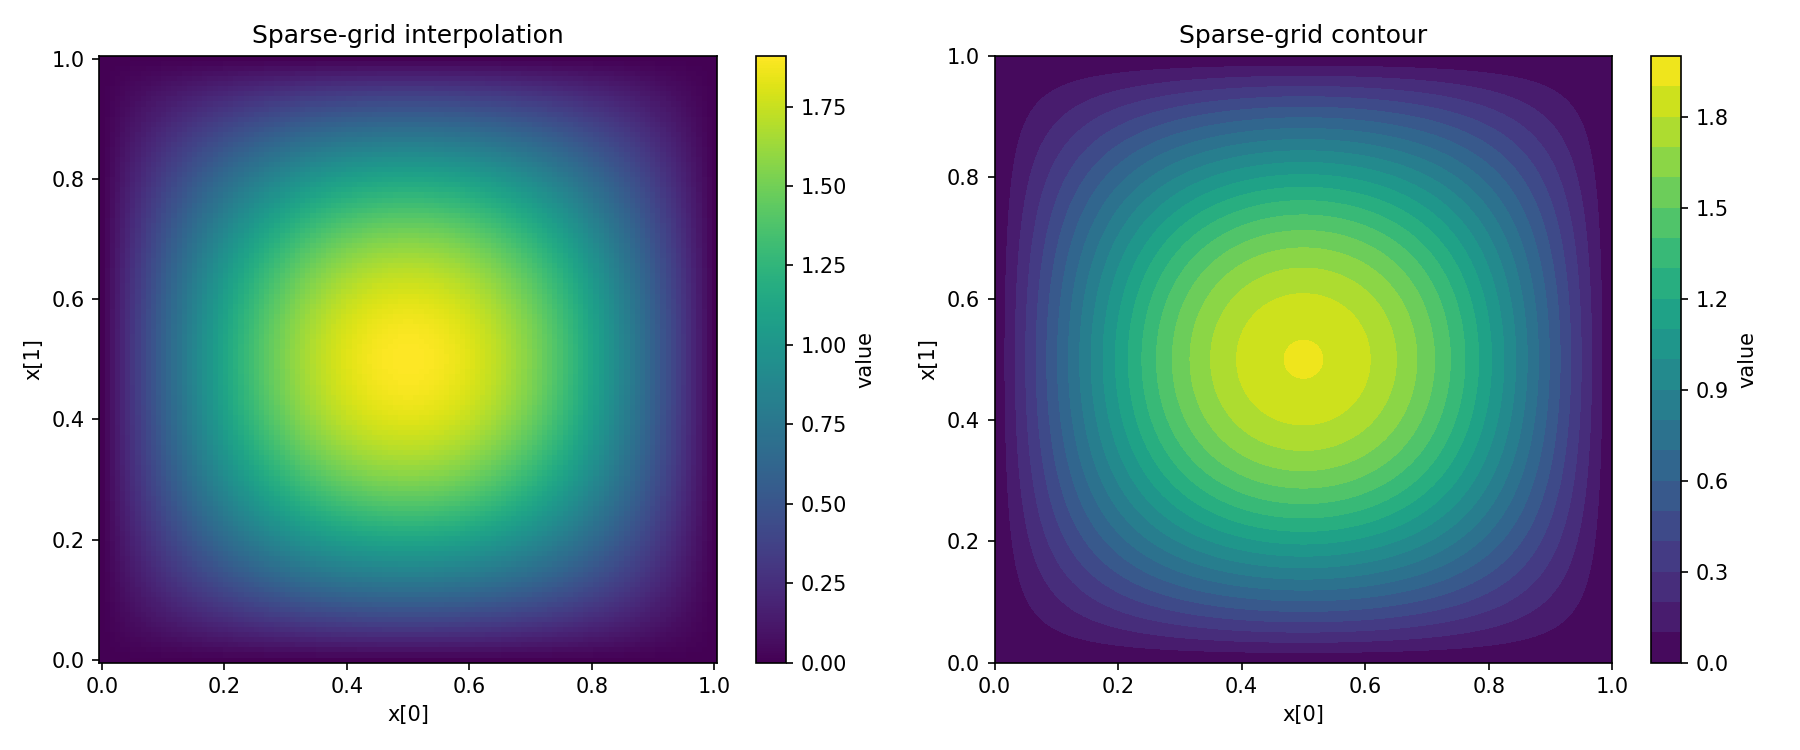
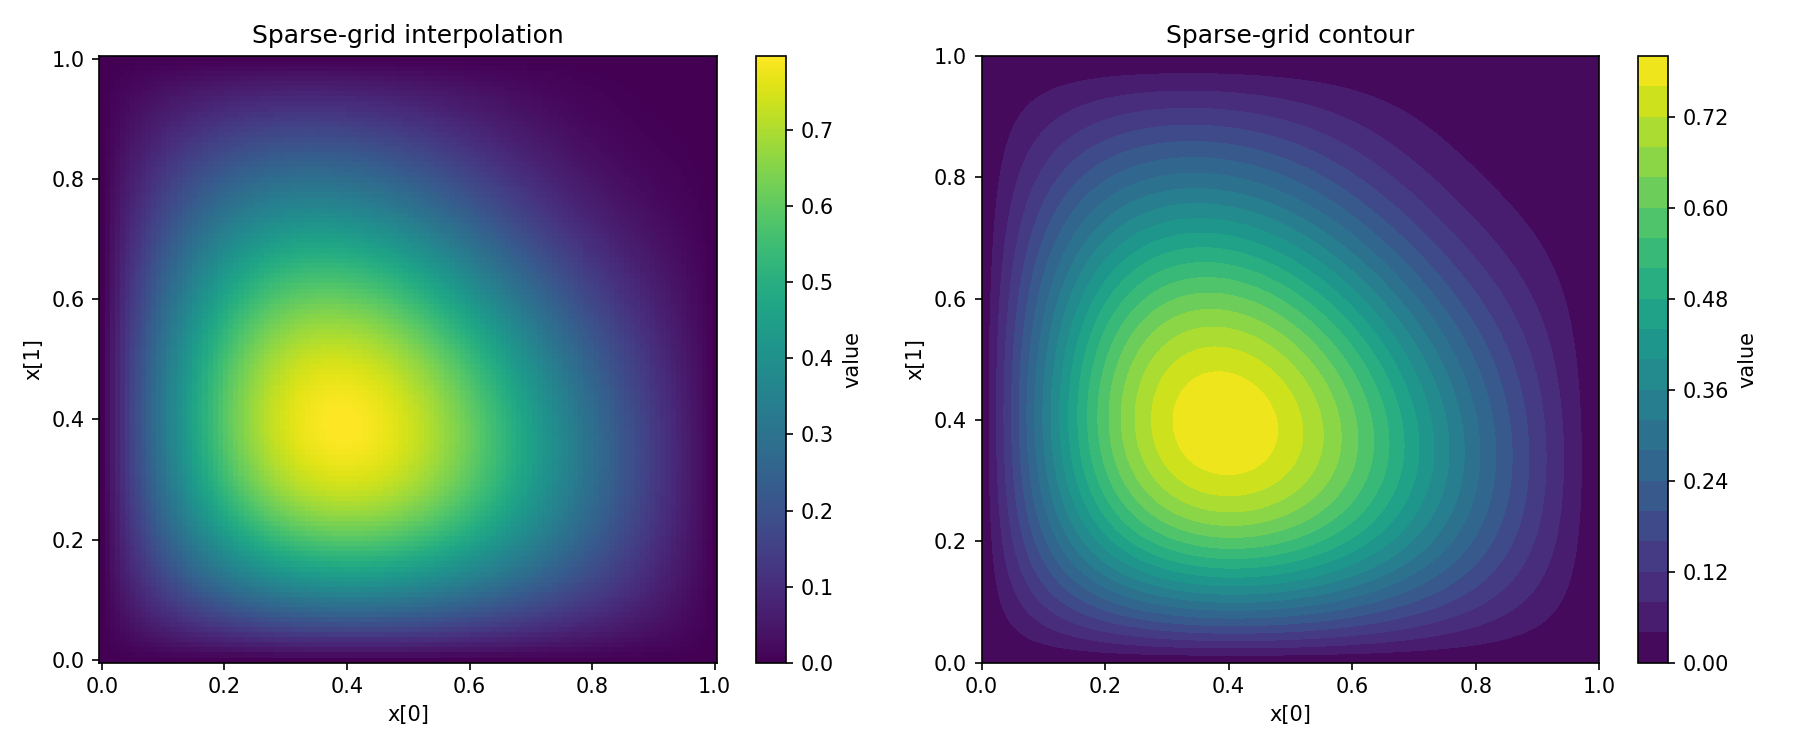
define grid dims, update all, star is supercool

diff --git a/combination_technique/examples/heat_eq.py b/combination_technique/examples/heat_eq.py
@@ -16,9 +16,9 @@ def main() -> None:
     alpha = 0.01
     model = HeatEq(d, alpha)
     stepper = TimeStepper(dt=0.0001, theta=1.0)
-    lvl = 10
-    T = 0.1
-    L = 1.0
+    lvl = 8
+    T = 1.0
+    L = (0.0, 1.0)
     n_workers = 10
 
     result = solve_combination(
@@ -37,7 +37,7 @@ def main() -> None:
 
     # plotting
     sparse = result_to_sgpp(result, level=lvl, boundary=True)
-    values = sparse.evaluate(np.array([[0.0, 0.0, 0.0], [1.0, -0.5, 0.25]]))
+    #values = sparse.evaluate(np.array([[0.0, 0.0, 0.0], [1.0, -0.5, 0.25]]))
 
     print(f"component grids: {len(result.components)}")
     print(f"sgpp points: {sparse.size}")
@@ -45,9 +45,9 @@ def main() -> None:
     print("mean from SG++ quadrature:")
     print(sparse.mean())
     print("sparse-grid evaluations:")
-    print(values)
+    #print(values)
 
-    sparse.save_slice_plot("HeatEq.png", axes=(0, 1), fixed={2: 0.0}, resolution=120)
+    sparse.save_slice_plot("HeatEq.png", axes=(0, 1), fixed={2: 0.5}, resolution=120)
     print("saved plot: HeatEq.png")
 
 

diff --git a/combination_technique/combination_technique/grid.py b/combination_technique/combination_technique/grid.py
@@ -24,16 +24,13 @@ class TensorGrid:
         cls,
         levels: tuple[int, ...],
         *,
-        domain_radius: float | tuple[float, ...] = 1.0,
+        domain_radius: tuple[float, ...] = (0.0, 1.0)
     ) -> "TensorGrid":
-        if isinstance(domain_radius, tuple):
-            if len(domain_radius) != len(levels):
-                raise ValueError("domain_radius tuple must match dimension")
-            bounds = tuple((-float(radius), float(radius)) for radius in domain_radius)
-        else:
-            radius = float(domain_radius)
-            #bounds = tuple((-radius, radius) for _ in levels)
-            bounds = tuple((0.0, radius) for _ in levels)
+        #print("levels = ", levels)
+        assert len(domain_radius) == 2
+        int_min = float(domain_radius[0])
+        int_max = float(domain_radius[1])
+        bounds = tuple((int_min, int_max) for _ in levels)
         return cls(tuple(levels), bounds)
 
     @property

diff --git a/combination_technique/combination_technique/initial.py b/combination_technique/combination_technique/initial.py
@@ -37,6 +37,8 @@ def product_laplace_density(coords: np.ndarray) -> np.ndarray:
 
 
 def heat_eq_IC(coords: np.ndarray):
+    # coords.shape = (d, n_pnts)
+    #print(coords.shape)
     d = coords.shape[0]
     a = 2.0
     b = 0.67
@@ -46,7 +48,7 @@ def heat_eq_IC(coords: np.ndarray):
     out2 = np.zeros_like(out)
     for i in range(d):
         o = np.sin(x)
-        o[:, i:(i+1)] = np.sin(a * x[:, i:(i+1)])
+        o[i:(i+1), :] = np.sin(a * x[i:(i+1), :])
         out2 += np.prod(o, axis=0, keepdims=True)
 
     out2 *= b/np.sqrt(d)

diff --git a/combination_technique/examples/ou_2d.py b/combination_technique/examples/ou_2d.py
@@ -25,10 +25,10 @@ def main() -> None:
                 1.540342092514038
     ]])
     model = OrnsteinUhlenbeck(sigma)
-    stepper = TimeStepper(dt=0.01, theta=1.0)
+    stepper = TimeStepper(dt=0.001, theta=1.0)
     lvl = 10
-    L = 4.0
-    T = 0.5
+    L = (-4.0, 4.0)
+    T = 0.001
     #backend = "matrix"
     backend = "linear_operator"
 

diff --git a/combination_technique/examples/smoluchowski_DW.py b/combination_technique/examples/smoluchowski_DW.py
@@ -20,7 +20,7 @@ def main() -> None:
     stepper = TimeStepper(dt=0.0001, theta=1.0)
     lvl = 12
     T = 0.8
-    L = 3.0
+    L = (-3.0, 3.0)
     n_workers = 10
 
     result = solve_combination(
